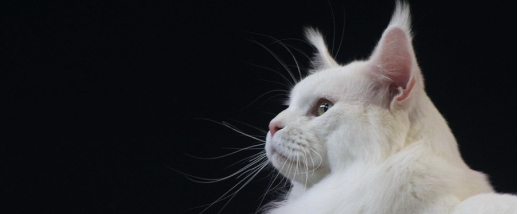
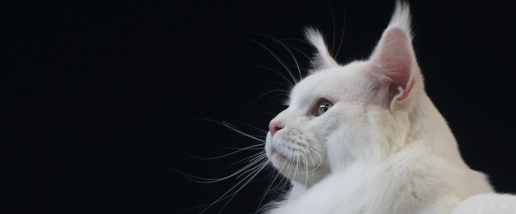
Сверстал десктопную версию каталога кошек

diff --git a/src/index.html b/src/index.html
@@ -68,17 +68,21 @@
                 <li class="pets-list__item">Котята</li>
             </ul>
             <div class="pets__pets-slider pets-slider">
-                <picture class="pets-slider__photo">
-                    <source media="(min-width: 1366px)" srcset="images/cat-catalog-desktop.png">
-                    <source media="(min-width: 768px)" srcset="images/cat-catalog-tablet.png, images/cat-catalog-desktop.png 2x">
-                    <img src="images/cat-catalog.jpg" alt="Фото кота">
-                </picture>
-                <picture class="pets-slider__photo--bg pets-slider__photo--left">
-                    <img src="images/cat-catalog-3.png" alt="Фото кота">
-                </picture>
-                <picture class="pets-slider__photo--bg pets-slider__photo--right">
-                    <img src="images/cat-catalog-2.png" alt="Фото кота">
-                </picture>
+                <div class="cat-gallery">
+                    <picture class="pets-slider__photo pets-slider__photo--bg pets-slider__photo--right">
+                        <source media="(min-width: 1366px)" srcset="images/cat-catalog-2-desktop.jpg">
+                        <img src="images/cat-catalog-2.png" alt="Фото кота">
+                    </picture>
+                    <picture class="pets-slider__photo pets-slider__photo--bg pets-slider__photo--left">
+                        <source media="(min-width: 1366px)" srcset="images/cat-catalog-3-desktop.jpg">
+                        <img src="images/cat-catalog-3.png" alt="Фото кота">
+                    </picture>
+                    <picture class="pets-slider__photo">
+                        <source media="(min-width: 1366px)" srcset="images/cat-catalog-desktop.jpg">
+                        <source media="(min-width: 768px)" srcset="images/cat-catalog-tablet.png, images/cat-catalog-desktop.jpg 2x">
+                        <img src="images/cat-catalog.jpg" alt="Фото кота">
+                    </picture>
+                </div>
                 <button class="pets-slider__button pets-slider__button--left">
                     <svg width="15" height="31" viewBox="0 0 15 31" fill="none" xmlns="http://www.w3.org/2000/svg">
                         <path d="M1 0.652832L13 15.978L1 30.2085" stroke="#A07B50" stroke-width="2"/>

diff --git a/src/css/style.scss b/src/css/style.scss
@@ -235,6 +235,10 @@ body {
   @media (min-width: $tablet-width) {
     padding: 100px 0 91px;
   }
+
+  @media (min-width: $desktop-width) {
+    padding: 223px 0 83px;
+  }
 }
 
 .pets__title {
@@ -292,28 +296,43 @@ body {
   @media (min-width: $tablet-width) {
     margin-bottom: 15px;
   }
+
+  @media (min-width: $desktop-width) {
+    margin-bottom: 40px;
+  }
 }
 
 .pets__pets-slider {
-  margin: 0 0 45px;
+  margin: 0 0 12px;
+  padding-left: 72px;
 }
 
 .pets-slider {
   position: relative;
-  overflow: hidden;
 }
 
 .pets-slider__photo {
   position: relative;
   z-index: 3;
+  display: inline-block;
+  text-align: left;
+
+  margin-right: 34px;
+  margin-bottom: 19px;
 
   &--bg {
     position: absolute;
     top: 50%;
     transform: translateY(-50%);
+    z-index: 2;
 
     @media (max-width: $mobile-width-only) {
       display: none;
+    }
+
+    @media (min-width: $desktop-width) {
+      position: static;
+      transform: none;
     }
   }
 
@@ -327,6 +346,18 @@ body {
 }
 
 
+.cat-gallery {
+  @media (min-width: $desktop-width) {
+    display: flex;
+    align-items: flex-start;
+    align-content: flex-start;
+    flex-direction: column;
+    flex-wrap: wrap;
+    max-height: 552px;
+    margin-right: -34px;
+
+  }
+}
 
 .pets-slider__button {
   position: absolute;
@@ -338,6 +369,10 @@ body {
 
   background: none;
   border: 0;
+
+  @media (min-width: $desktop-width) {
+    display: none;
+  }
 
 
   &--left {
